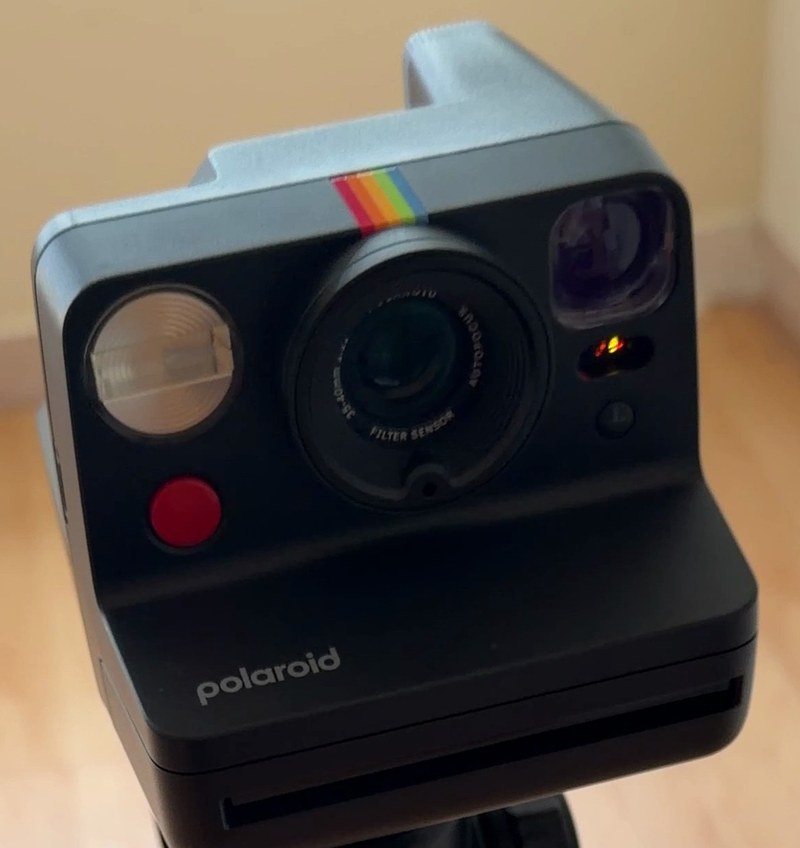
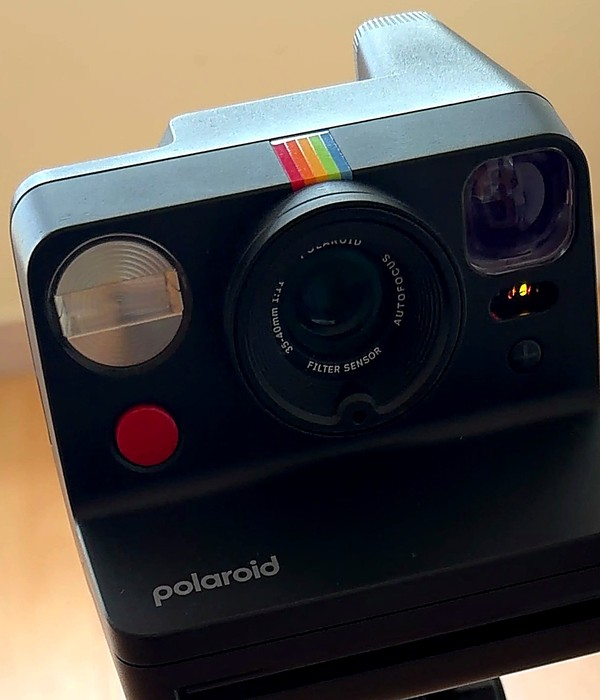
Shrink the camera photo, sharpen it, and slow the develop effect to ~5s
- Picked the sharpest frame from the reference video (motion-blur
  scoring) and applied unsharp mask + contrast for a cleaner, more
  intentional product-photo look instead of a soft video screenshot
- Camera is now a small supporting detail (~half its previous size) so
  the polaroid invite stays the visual focus
- Stretched the info blur-to-sharp reveal from ~1.7s to ~5s

diff --git a/js/script.js b/js/script.js
@@ -129,8 +129,9 @@
     // sized off the shorter side so the camera looks right whether this is
     // a tall phone popup, a wide desktop popup, or the fixed 9:16 export
     const shortSide = Math.min(W, H);
-    const camW = clamp01Range(shortSide * 0.42, 150, 460);
-    const camH = camW * 1.06; // matches the source camera photo's proportions
+    // small — a supporting detail, not competing with the polaroid card
+    const camW = clamp01Range(shortSide * 0.22, 110, 190);
+    const camH = camW * (700 / 600); // matches the source camera photo's proportions
     CAMERA = {
       w: camW,
       h: camH,
@@ -306,11 +307,11 @@
     const cx = W / 2;
 
     // camera pops in first
-    const pCam = progressBetween(t, 0.0, 0.1);
+    const pCam = progressBetween(t, 0.0, 0.06);
     if (pCam > 0) drawCamera(easeOutCubic(pCam));
 
     // polaroid slides out from the camera's slot
-    const pEject = progressBetween(t, 0.06, 0.32);
+    const pEject = progressBetween(t, 0.04, 0.2);
     if (pEject <= 0) { drawFlash(t); return; }
     const eject = easeOutCubic(pEject);
     const startY = CAMERA.slotY - POLA.h + 22;
@@ -335,7 +336,7 @@
     if (pCam > 0) drawCamera(easeOutCubic(pCam));
 
     // washi tape across two corners, once the photo is mostly out
-    const pTape = progressBetween(t, 0.26, 0.38);
+    const pTape = progressBetween(t, 0.17, 0.25);
     if (pTape > 0) {
       ctx.save();
       ctx.globalAlpha = easeOutCubic(pTape);
@@ -368,7 +369,7 @@
     // Every piece of info develops together, like a Polaroid photo: it all
     // fades in from a heavy blur to sharp at once, instead of one line at
     // a time.
-    const pInfo = progressBetween(t, 0.42, 0.8);
+    const pInfo = progressBetween(t, 0.26, 0.94);
     const infoEase = easeOutCubic(pInfo);
     const infoBlur = (1 - infoEase) * 16 * S;
     ctx.globalAlpha = infoEase;
@@ -462,7 +463,7 @@
     drawFlash(t);
   }
 
-  const REVEAL_MS = 4600;
+  const REVEAL_MS = 7400;
 
   // drives the on-screen popup reveal (whatever shape the viewer's canvas
   // currently is — always the live canvas, never the export one)

diff --git a/index.html b/index.html
@@ -6,7 +6,7 @@
 <title>O-O Polaroid — Invitation</title>
 <meta name="description" content="You're invited to the O-O Polaroid opening store">
 <link rel="icon" href="assets/logo.svg">
-<link rel="stylesheet" href="css/style.css?v=8">
+<link rel="stylesheet" href="css/style.css?v=9">
 </head>
 <body>
 
@@ -73,6 +73,6 @@
   </div>
 </div>
 
-<script src="js/script.js?v=8"></script>
+<script src="js/script.js?v=9"></script>
 </body>
 </html>
